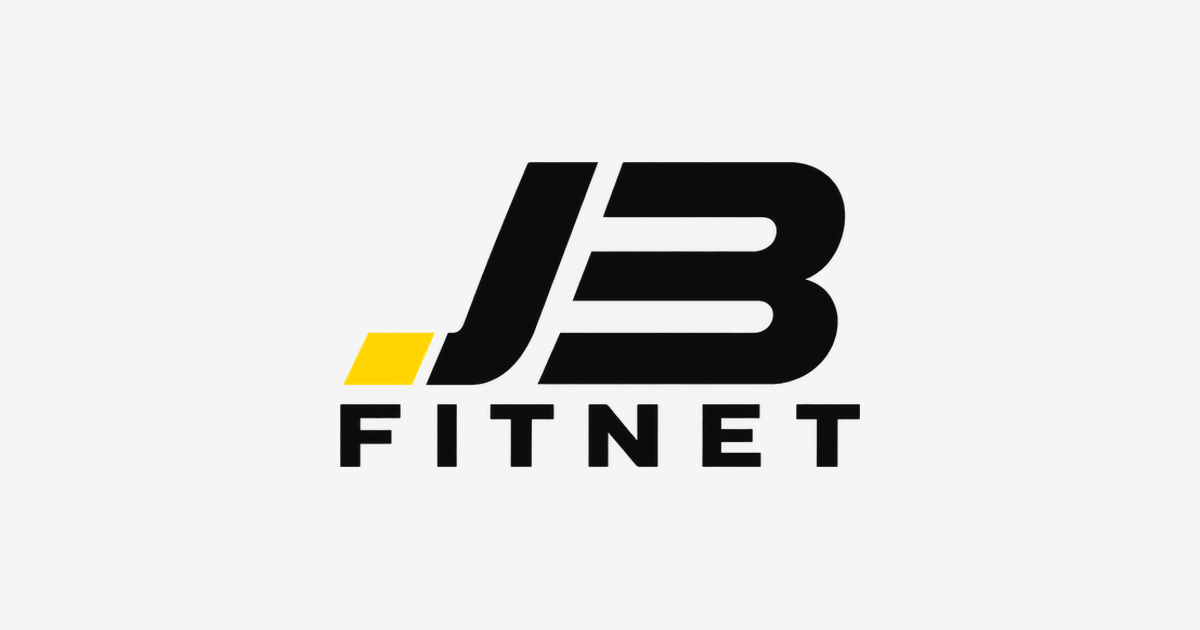
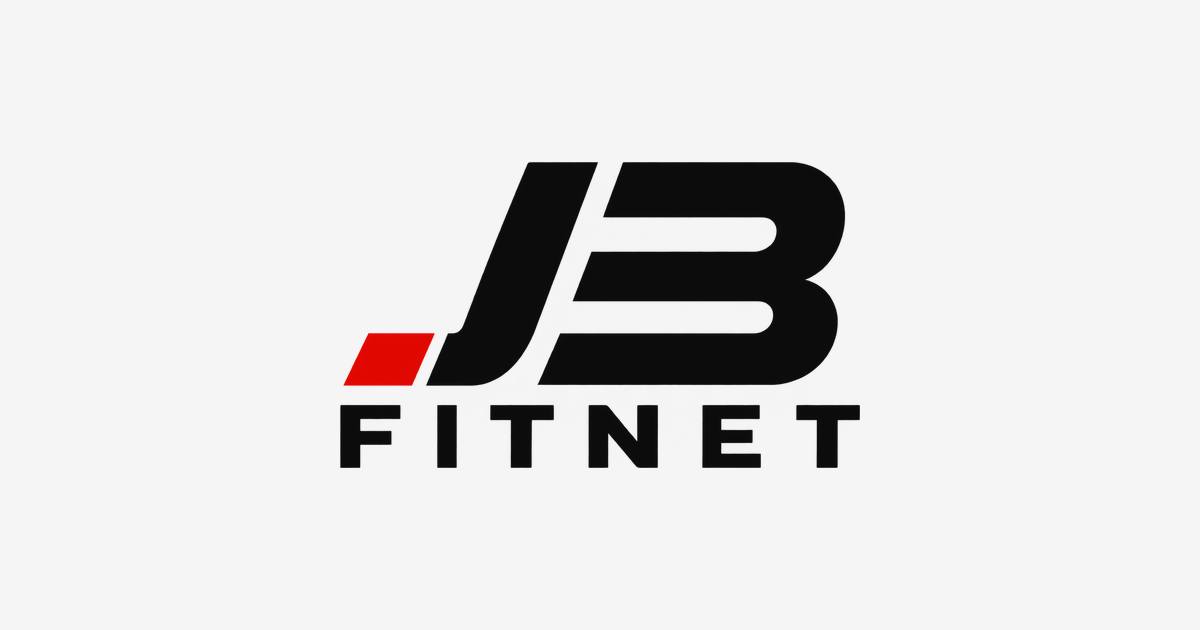
Switch brand colour to red and add contact email
- Replace the yellow accent with brand red across the site and admin panel
- Recolour the logo slash, icons and share image to match
- Show jbfitnet@gmail.com in the footer and privacy page
- Align the waitlist header with the main site header
- Add clear no-data states to the admin dashboard

diff --git a/src/app/globals.css b/src/app/globals.css
@@ -1,8 +1,10 @@
 /* JB Fitnet brand tokens (see ../brand-kit/tokens.css) */
 :root {
   color-scheme: light;
-  --yellow: #ffd600;
-  --yellow-600: #e6c100;
+  /* Brand red. White text sits on it; it also works as text on the light surfaces. */
+  --brand: #e10600;
+  --brand-600: #b80500;
+  --on-brand: #ffffff;
   --black: #0b0b0b;
   --n-900: #161616;
   --charcoal: #1e1e1e;
@@ -13,7 +15,7 @@
   --error: #f65454;
   --line: rgba(11, 11, 11, 0.12);
 
-  /* Site surface tokens (light theme). Yellow is a highlight and a fill, never text. */
+  /* Site surface tokens (light theme) */
   --bg: #f5f5f5;
   --surface: #ffffff;
   --surface-2: #ebebeb;
@@ -21,13 +23,13 @@
   --text: #0b0b0b;
   --muted: #5c5c5c;
   --border-strong: #a8a8a8;
-  --accent-text: #0b0b0b;
+  --accent-text: #e10600;
   --focus: #0b0b0b;
   --ghost: rgba(11, 11, 11, 0.4);
   --glass: rgba(245, 245, 245, 0.9);
-  --mark-bg: #ffd600;
-  --accent-soft: rgba(255, 214, 0, 0.3);
-  --hero-tint: rgba(255, 214, 0, 0.28);
+  --mark-bg: transparent;
+  --accent-soft: rgba(225, 6, 0, 0.07);
+  --hero-tint: rgba(225, 6, 0, 0.08);
   --error-text: #c62828;
 
   --radius: 16px;
@@ -146,8 +148,8 @@ mark {
   left: 1rem;
   top: -4rem;
   z-index: 100;
-  background: var(--yellow);
-  color: var(--black);
+  background: var(--brand);
+  color: var(--on-brand);
   padding: 0.6rem 1rem;
   border-radius: 8px;
   font-weight: 600;
@@ -208,7 +210,7 @@ mark {
   gap: 1.5rem;
 }
 
-/* The slanted yellow slash from the logo opens every eyebrow. */
+/* The slanted brand slash from the logo opens every eyebrow. */
 .eyebrow {
   display: inline-flex;
   align-items: center;
@@ -224,7 +226,7 @@ mark {
   content: "";
   width: 18px;
   height: 11px;
-  background: var(--yellow);
+  background: var(--brand);
   transform: skewX(var(--slant));
   flex: none;
 }
@@ -258,12 +260,12 @@ mark {
 }
 
 .btn-primary {
-  background: var(--yellow);
-  color: var(--black);
+  background: var(--brand);
+  color: var(--on-brand);
 }
 
 .btn-primary:hover {
-  background: var(--yellow-600);
+  background: var(--brand-600);
 }
 
 .btn-ghost {
@@ -281,8 +283,8 @@ mark {
 }
 
 .btn-outline-dark {
-  border-color: var(--black);
-  color: var(--black);
+  border-color: var(--on-brand);
+  color: var(--on-brand);
 }
 
 .btn-sm {
@@ -458,7 +460,7 @@ mark {
   width: 100%;
   height: 28px;
   cursor: pointer;
-  accent-color: var(--yellow);
+  accent-color: var(--brand);
 }
 
 .calc-month {
@@ -481,8 +483,8 @@ mark {
 }
 
 .calc-month span.on {
-  background: var(--yellow);
-  color: var(--black);
+  background: var(--brand);
+  color: var(--on-brand);
 }
 
 .calc-totals {
@@ -731,8 +733,8 @@ mark {
   display: grid;
   place-items: center;
   flex: none;
-  background: var(--yellow);
-  color: var(--black);
+  background: var(--brand);
+  color: var(--on-brand);
   border-radius: 50%;
 }
 
@@ -778,7 +780,7 @@ mark {
   top: 0.45em;
   width: 16px;
   height: 10px;
-  background: var(--yellow);
+  background: var(--brand);
   transform: skewX(var(--slant));
 }
 
@@ -858,8 +860,8 @@ mark {
 
 /* CTA band */
 .cta-band {
-  background: var(--yellow);
-  color: var(--black);
+  background: var(--brand);
+  color: var(--on-brand);
   padding-block: clamp(3rem, 7vw, 5rem);
 }
 
@@ -876,7 +878,7 @@ mark {
 }
 
 .cta-band :focus-visible {
-  outline-color: var(--black);
+  outline-color: var(--on-brand);
 }
 
 /* Forms */
@@ -915,7 +917,7 @@ mark {
 .field textarea:focus {
   outline: none;
   border-color: var(--focus);
-  box-shadow: 0 0 0 3px rgba(255, 214, 0, 0.15);
+  box-shadow: 0 0 0 3px rgba(225, 6, 0, 0.15);
 }
 
 .hp {
@@ -1111,7 +1113,7 @@ mark {
 }
 
 .join-progress span.on {
-  background: var(--yellow);
+  background: var(--brand);
 }
 
 .join-count {
@@ -1186,9 +1188,9 @@ mark {
 }
 
 .chips input:checked + span {
-  background: var(--yellow);
-  border-color: var(--yellow);
-  color: var(--black);
+  background: var(--brand);
+  border-color: var(--brand);
+  color: var(--on-brand);
 }
 
 .chips input:focus-visible + span {
@@ -1265,7 +1267,7 @@ mark {
   font-size: 0.95rem;
 }
 
-/* Admin panel: light surface, brand black sidebar, yellow for the active item and primary actions */
+/* Admin panel: light surface, brand black sidebar, brand red for the active item and primary actions */
 body:has(.admin) {
   background: #f5f5f5;
 }
@@ -1308,7 +1310,7 @@ body:has(.admin) {
   gap: 1.25rem;
   background: var(--a-surface);
   border: 1px solid var(--a-line);
-  border-top: 4px solid var(--yellow);
+  border-top: 4px solid var(--brand);
   border-radius: 12px;
   padding: 2rem;
   color: var(--a-text);
@@ -1433,13 +1435,13 @@ body:has(.admin) {
 }
 
 .admin-side-nav button[aria-current="page"] {
-  background: var(--yellow);
-  color: var(--black);
+  background: var(--brand);
+  color: var(--on-brand);
   font-weight: 600;
 }
 
 .admin-side :focus-visible {
-  outline-color: var(--yellow);
+  outline-color: var(--white);
 }
 
 .admin-side-count {
@@ -1546,14 +1548,14 @@ body:has(.admin) {
 }
 
 .admin-btn-primary {
-  background: var(--yellow);
-  border-color: var(--yellow);
-  color: var(--black);
+  background: var(--brand);
+  border-color: var(--brand);
+  color: var(--on-brand);
 }
 
 .admin-btn-primary:hover {
-  background: var(--yellow-600);
-  border-color: var(--yellow-600);
+  background: var(--brand-600);
+  border-color: var(--brand-600);
 }
 
 .admin-link {
@@ -1565,7 +1567,7 @@ body:has(.admin) {
   color: var(--a-text);
   font-weight: 600;
   text-decoration: underline;
-  text-decoration-color: var(--yellow);
+  text-decoration-color: var(--brand);
   text-decoration-thickness: 2px;
   text-underline-offset: 3px;
   cursor: pointer;
@@ -1632,7 +1634,7 @@ body:has(.admin) {
 .admin .field input:focus,
 .admin .field select:focus {
   border-color: var(--a-text);
-  box-shadow: 0 0 0 3px rgba(255, 214, 0, 0.45);
+  box-shadow: 0 0 0 3px rgba(225, 6, 0, 0.2);
 }
 
 .admin .form-error {
@@ -1693,7 +1695,7 @@ body:has(.admin) {
 }
 
 .admin-table tbody tr:hover {
-  background: #fffbe0;
+  background: #fdeceb;
 }
 
 .admin-empty {
@@ -1770,7 +1772,6 @@ body:has(.admin) {
   overflow: hidden;
 }
 
-/* Black bars: yellow on a light surface is too faint to read as data. */
 .admin-bar-track span {
   display: block;
   height: 100%;
@@ -1791,8 +1792,8 @@ body:has(.admin) {
 }
 
 .admin-viewcol .admin-icon-btn:hover {
-  background: var(--yellow);
-  color: var(--black);
+  background: var(--brand);
+  color: var(--on-brand);
 }
 
 .admin-sheet-backdrop {
@@ -1840,7 +1841,7 @@ body:has(.admin) {
   justify-content: space-between;
   gap: 1rem;
   padding: 1.25rem 1.25rem 1rem;
-  border-top: 4px solid var(--yellow);
+  border-top: 4px solid var(--brand);
   border-bottom: 1px solid var(--a-line);
 }
 
@@ -1884,7 +1885,7 @@ body:has(.admin) {
 }
 
 .admin-sheet-list a {
-  text-decoration-color: var(--yellow);
+  text-decoration-color: var(--brand);
   text-decoration-thickness: 2px;
   text-underline-offset: 3px;
 }

diff --git a/src/lib/site.ts b/src/lib/site.ts
@@ -3,8 +3,8 @@ export const site = {
   tagline: "One wallet. Many gyms. Pay only for the days you train.",
   description:
     "Top up your JB Fitnet wallet and train at any partner gym. You pay that gym's day rate only on the days you go. Join the waitlist.",
-  // Shown on the privacy page and footer once set.
-  contactEmail: process.env.NEXT_PUBLIC_CONTACT_EMAIL ?? "",
+  // Shown on the privacy page and footer. NEXT_PUBLIC_CONTACT_EMAIL overrides it.
+  contactEmail: process.env.NEXT_PUBLIC_CONTACT_EMAIL || "jbfitnet@gmail.com",
 };
 
 export const nav = [

diff --git a/src/components/AdminApp.tsx b/src/components/AdminApp.tsx
@@ -265,7 +265,7 @@ export default function AdminApp() {
 
       <aside className={mobileNav ? "admin-side mobile-open" : "admin-side"} aria-label="Admin navigation">
         <div className="admin-side-head">
-          <Image src="/jb-mark.png" alt="" width={32} height={32} />
+          <Image src="/mark.png" alt="" width={32} height={32} />
           <div className="admin-side-text">
             <strong>JB Fitnet</strong>
             <span>Waitlist admin</span>

diff --git a/src/components/Logo.tsx b/src/components/Logo.tsx
@@ -2,5 +2,5 @@ import Image from "next/image";
 
 export default function Logo({ width = 75, priority = false }: { width?: number; priority?: boolean }) {
   const height = Math.round((width * 704) / 1196);
-  return <Image src="/logo-light.png" alt="JB Fitnet" width={width} height={height} priority={priority} />;
+  return <Image src="/jb-fitnet-logo.png" alt="JB Fitnet" width={width} height={height} priority={priority} />;
 }

diff --git a/src/components/Footer.tsx b/src/components/Footer.tsx
@@ -24,7 +24,7 @@ export default function Footer() {
         <div>
           <h2>Company</h2>
           <Link href="/privacy">Privacy</Link>
-          {site.contactEmail && <span>{site.contactEmail}</span>}
+          {site.contactEmail && <a href={`mailto:${site.contactEmail}`}>{site.contactEmail}</a>}
         </div>
       </div>
       <div className="container footer-base">© 2026 JB Fitnet. App coming soon.</div>

diff --git a/src/app/(site)/privacy/page.tsx b/src/app/(site)/privacy/page.tsx
@@ -30,7 +30,7 @@ export default function Privacy() {
           You can ask us to delete your waitlist entry at any time
           {site.contactEmail ? (
             <>
-              {" "}by writing to <strong>{site.contactEmail}</strong>.
+              {" "}by writing to <a href={`mailto:${site.contactEmail}`}>{site.contactEmail}</a>.
             </>
           ) : (
             "."

diff --git a/README.md b/README.md
@@ -42,7 +42,7 @@ The seed script only runs against a local MongoDB (`mongodb://127.0.0.1` or `loc
 |---|---|---|
 | `MONGODB_URI` | Yes | Atlas connection string |
 | `MONGODB_DB` | No | Database name, defaults to `jbfitnet` |
-| `NEXT_PUBLIC_CONTACT_EMAIL` | No | Shown in the footer and on the privacy page |
+| `NEXT_PUBLIC_CONTACT_EMAIL` | No | Overrides the contact email in the footer and privacy page (default `jbfitnet@gmail.com`) |
 | `ADMIN_PASSWORD` | For `/admin` | Password for the admin panel. Use a long random value. Without it the panel stays locked. |
 | `ADMIN_SESSION_SECRET` | No | Separate key for signing admin sessions |
 
